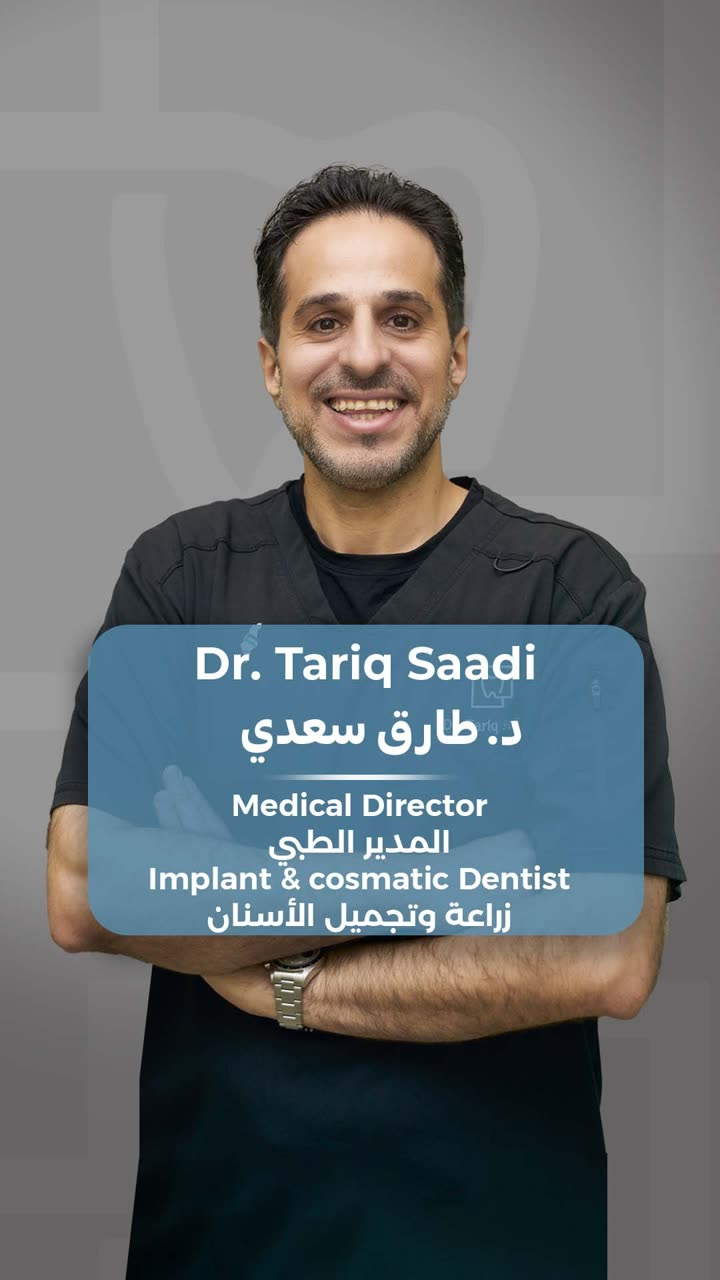
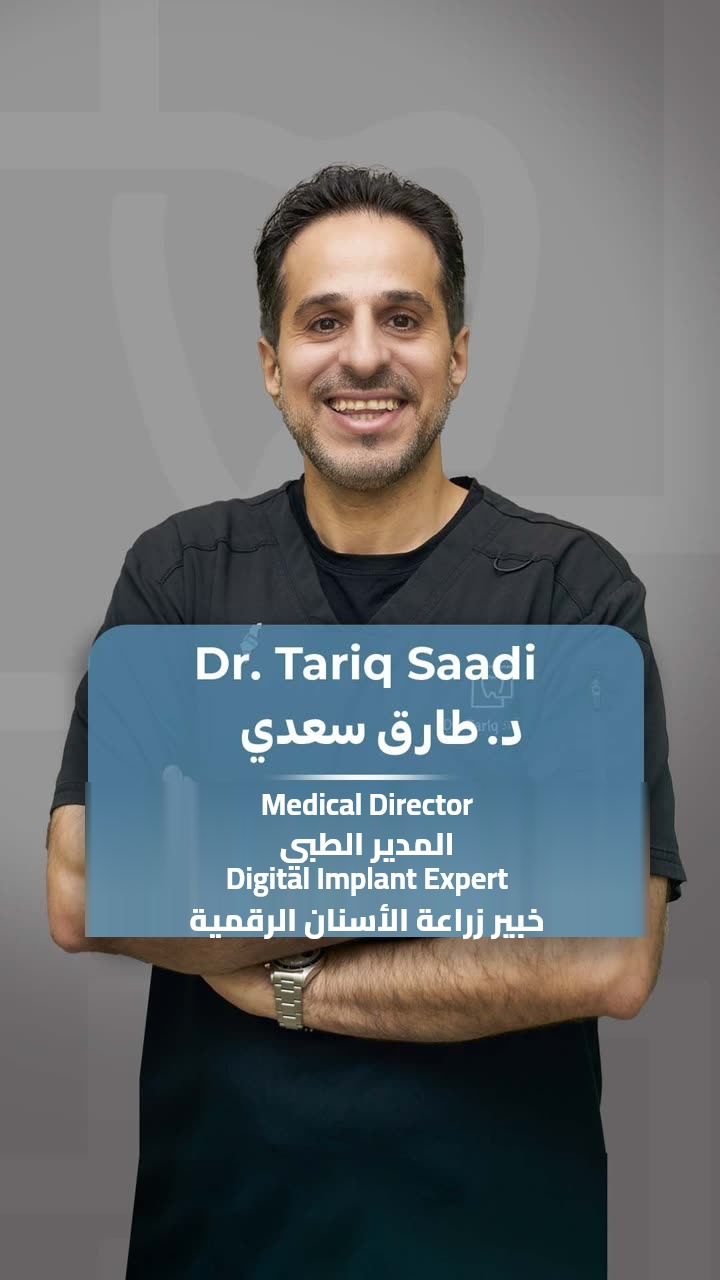
Sync accumulated content/design updates
- Hero copy, badge, CTA, and stats updates; Instagram block replacing stats
- Photo edit: corrected caption text on doctor hero image
- Clinic address, contact numbers, and WhatsApp number updates
- Removed email and social icons; footer cleanup
- Mobile nav z-index fix (close button was unreachable under overlay)
- WhatsApp float button made more prominent with a chat label

diff --git a/index.html b/index.html
@@ -35,7 +35,7 @@
       <svg width="16" height="16" viewBox="0 0 24 24" fill="none"><path d="M4 11.5 12 4l8 7.5M6 10v9h5v-5h2v5h5v-9" stroke="currentColor" stroke-width="1.8" stroke-linecap="round" stroke-linejoin="round"/></svg>
       <span data-i18n="mainSiteBtn">الموقع الرئيسي</span>
     </a>
-    <a href="https://wa.me/971509594655" class="btn btn-primary btn-sm nav-cta" data-i18n="bookBtn">احجز استشارتك</a>
+    <a href="https://wa.me/971501040481" class="btn btn-primary btn-sm nav-cta" data-i18n="bookBtn">احجز استشارتك</a>
     <div class="header-end-group">
       <button class="lang-toggle" id="langToggle">EN</button>
       <button class="nav-toggle" id="navToggle" data-i18n-attr="aria-label:openMenu" aria-label="فتح القائمة" aria-expanded="false">
@@ -59,20 +59,22 @@
   <img id="toothFly" class="tooth-fly" src="assets/images/tooth-3d.png" alt="" aria-hidden="true">
   <div class="wrap hero-grid">
     <div>
-      <div class="eyebrow"><span class="dot"></span> <span data-i18n="eyebrowText">زراعة أسنان رقمية 100%</span></div>
-      <h1 data-i18n-html="heroHeading">سنّك <span id="targetWord">الناقص</span>، برجع مكانه <em>بدقة رقمية</em></h1>
-      <p class="lead" data-i18n="heroLead">د. طارق السعدي هو يلي رح يتابع حالتك بنفسه، بخبرة 20+ سنة — كل خطوة من الفحص لتركيب الزرعة مدروسة رقمياً قبل ما نبلش فيك.</p>
+      <div class="eyebrow"><span class="dot"></span> <span data-i18n="eyebrowText">تجربة زراعة أسنان رقمية متكاملة</span></div>
+      <h1 data-i18n-html="heroHeading">ابتسامتك <span id="targetWord">الكاملة</span>، <em>بدقة رقمية</em> لا تقبل الخطأ</h1>
+      <p class="lead" data-i18n="heroLead">تحت إشراف مباشر من د. طارق السعدي، أحد رواد طب الأسنان الرقمي في دولة الإمارات بخبرة +20 سنه في الزراعه الرقميه, يتم التخطيط لكل حالة رقميًا بدقة كاملة قبل أي تدخل جراحي، لتحقيق نتيجة يمكن التنبؤ بها منذ اليوم الأول.</p>
       <div class="hero-ctas">
-        <a href="https://wa.me/971509594655" class="btn btn-primary">
-          <span data-i18n="bookFreeBtn">احجز استشارة مجانية</span>
+        <a href="https://wa.me/971501040481" class="btn btn-primary">
+          <span data-i18n="bookFreeBtn">احجز جلسة تقييمك مع د. طارق</span>
           <svg width="16" height="16" viewBox="0 0 24 24" fill="none"><path d="M5 12h14M13 6l6 6-6 6" stroke="currentColor" stroke-width="2" stroke-linecap="round" stroke-linejoin="round"/></svg>
         </a>
-        <a href="#service" class="btn btn-outline" data-i18n="seeServiceBtn">شوف الخدمة</a>
+        <a href="#service" class="btn btn-outline" data-i18n="seeServiceBtn">استعرض مراحل العلاج</a>
       </div>
       <div class="hero-stats">
-        <div><div class="n" data-count="20" data-suffix="+">0</div><div class="l" data-i18n="statYears">سنة خبرة</div></div>
-        <div><div class="n" data-count="4.8" data-decimal="1">0</div><div class="l" data-i18n="statRating">تقييم المرضى</div></div>
-        <div><div class="n" data-count="2015">0</div><div class="l" data-i18n="statDigitalSince">رقمي من هالسنة</div></div>
+        <a href="https://www.instagram.com/dr.tariqsaadi/" target="_blank" rel="noopener" class="hero-ig-link">
+          <svg width="20" height="20" viewBox="0 0 24 24" fill="none"><rect x="3" y="3" width="18" height="18" rx="5" stroke="currentColor" stroke-width="1.6"/><circle cx="12" cy="12" r="4" stroke="currentColor" stroke-width="1.6"/><circle cx="17.5" cy="6.5" r="1.2" fill="currentColor"/></svg>
+          <span dir="ltr" data-i18n="instagramHandle">@dr.tariqsaadi</span>
+        </a>
+        <span class="l" data-i18n="instagramCaption">لتتعرف اكتر عن الطبيب وبعض حالات مرضاه</span>
       </div>
       <div class="doctor-skills hero-skills">
         <span>Full-Arch Implants</span>
@@ -105,27 +107,27 @@
 
     <div class="steps-row">
       <div class="step" data-reveal>
-        <div class="step-ic"><svg width="22" height="22" viewBox="0 0 24 24" fill="none"><path d="M4 9h16M4 15h16M9 4v16" stroke="currentColor" stroke-width="1.7" stroke-linecap="round"/></svg></div>
+        <div class="step-ic"><svg width="22" height="22" viewBox="0 0 24 24" fill="none"><path d="M4 7V5a1 1 0 0 1 1-1h2M4 17v2a1 1 0 0 0 1 1h2M20 7V5a1 1 0 0 0-1-1h-2M20 17v2a1 1 0 0 1-1 1h-2" stroke="currentColor" stroke-width="1.7" stroke-linecap="round" stroke-linejoin="round"/><circle cx="12" cy="12" r="3" stroke="currentColor" stroke-width="1.7"/></svg></div>
         <div class="step-n">01</div>
         <div class="step-t" data-i18n="step1">فحص CBCT ثلاثي الأبعاد</div>
       </div>
       <div class="step-line" data-line></div>
       <div class="step" data-reveal>
-        <div class="step-ic camel"><svg width="22" height="22" viewBox="0 0 24 24" fill="none"><path d="M12 2v20M2 12h20" stroke="currentColor" stroke-width="1.7" stroke-linecap="round"/></svg></div>
+        <div class="step-ic camel"><svg width="22" height="22" viewBox="0 0 24 24" fill="none"><path d="M4 16 16 4l4 4L8 20 4 16Z" stroke="currentColor" stroke-width="1.7" stroke-linejoin="round"/><path d="M9.5 10.5l1.5 1.5M12.5 7.5 14 9M6.5 13.5 8 15" stroke="currentColor" stroke-width="1.7" stroke-linecap="round"/></svg></div>
         <div class="step-n">02</div>
         <div class="step-t" data-i18n="step2">تخطيط رقمي للجراحة</div>
       </div>
       <div class="step-line" data-line></div>
       <div class="step" data-reveal>
-        <div class="step-ic"><svg width="22" height="22" viewBox="0 0 24 24" fill="none"><path d="M9 12l2 2 4-4M12 21c-4.5-2-8-5.5-8-10V6l8-3 8 3v5c0 4.5-3.5 8-8 10Z" stroke="currentColor" stroke-width="1.7" stroke-linejoin="round"/></svg></div>
+        <div class="step-ic"><svg width="22" height="22" viewBox="0 0 24 24" fill="none"><circle cx="12" cy="12" r="8" stroke="currentColor" stroke-width="1.7"/><circle cx="12" cy="12" r="3" stroke="currentColor" stroke-width="1.7"/><path d="M12 2v3M12 19v3M2 12h3M19 12h3" stroke="currentColor" stroke-width="1.7" stroke-linecap="round"/></svg></div>
         <div class="step-n">03</div>
         <div class="step-t" data-i18n="step3">زراعة موجّهة رقمياً</div>
       </div>
       <div class="step-line" data-line></div>
       <div class="step" data-reveal>
-        <div class="step-ic camel"><svg width="22" height="22" viewBox="0 0 24 24" fill="none"><rect x="4" y="4" width="16" height="16" rx="3" stroke="currentColor" stroke-width="1.7"/><path d="M8 12h8M12 8v8" stroke="currentColor" stroke-width="1.7" stroke-linecap="round"/></svg></div>
+        <div class="step-ic camel"><svg width="22" height="22" viewBox="0 0 24 24" fill="none"><path d="M12 3c-2 0-3.2 1-4.5 1-1.5 0-2.5-.8-3-.8C3 3.2 3 5 3 6.5c0 3 1 5.5 2 8 .7 1.8 1.3 3.5 2.3 3.5.9 0 1-2 1.4-3.3.3-1 .7-1.7 1.3-1.7s1 .7 1.3 1.7c.4 1.3.5 3.3 1.4 3.3 1 0 1.6-1.7 2.3-3.5 1-2.5 2-5 2-8 0-1.5 0-3.3-1.5-3.3-.5 0-1.5.8-3 .8C15.2 4 14 3 12 3Z" stroke="currentColor" stroke-width="1.5" stroke-linejoin="round"/></svg></div>
         <div class="step-n">04</div>
-        <div class="step-t" data-i18n="step4">تركيبة CAD/CAM نهائية</div>
+        <div class="step-t" data-i18n="step4">تركيبة نهائية مصممة رقميًا</div>
       </div>
     </div>
 
@@ -145,12 +147,12 @@
         </blockquote>
       </div>
       <div class="clinic-contact" data-reveal>
-        <a href="tel:00971509594655"><svg width="16" height="16" viewBox="0 0 24 24" fill="none"><path d="M22 16.92v3a2 2 0 0 1-2.18 2 19.79 19.79 0 0 1-8.63-3.07 19.5 19.5 0 0 1-6-6 19.79 19.79 0 0 1-3.07-8.67A2 2 0 0 1 4.11 2h3a2 2 0 0 1 2 1.72c.12.9.34 1.79.65 2.65a2 2 0 0 1-.45 2.11L8.09 9.91a16 16 0 0 0 6 6l1.43-1.27a2 2 0 0 1 2.11-.45c.86.31 1.75.53 2.65.65A2 2 0 0 1 22 16.92z" stroke="currentColor" stroke-width="1.6" stroke-linejoin="round"/></svg> 00971509594655</a>
-        <a href="mailto:ddcuae@hotmail.com"><svg width="16" height="16" viewBox="0 0 24 24" fill="none"><rect x="3" y="5" width="18" height="14" rx="2" stroke="currentColor" stroke-width="1.6"/><path d="M3 7l9 6 9-6" stroke="currentColor" stroke-width="1.6"/></svg> ddcuae@hotmail.com</a>
-        <span><svg width="16" height="16" viewBox="0 0 24 24" fill="none"><path d="M12 21s-8-5.5-8-11a5 5 0 0 1 9-3 5 5 0 0 1 9 3c0 5.5-8 11-8 11" stroke="currentColor" stroke-width="1.6" stroke-linejoin="round"/></svg> <span data-i18n="clinicAddress">عيادة 4، الطابق 2، تقاطع 6، المزيرعة، الشارقة</span></span>
+        <a href="tel:0097165556363"><svg width="16" height="16" viewBox="0 0 24 24" fill="none"><path d="M22 16.92v3a2 2 0 0 1-2.18 2 19.79 19.79 0 0 1-8.63-3.07 19.5 19.5 0 0 1-6-6 19.79 19.79 0 0 1-3.07-8.67A2 2 0 0 1 4.11 2h3a2 2 0 0 1 2 1.72c.12.9.34 1.79.65 2.65a2 2 0 0 1-.45 2.11L8.09 9.91a16 16 0 0 0 6 6l1.43-1.27a2 2 0 0 1 2.11-.45c.86.31 1.75.53 2.65.65A2 2 0 0 1 22 16.92z" stroke="currentColor" stroke-width="1.6" stroke-linejoin="round"/></svg> 0097165556363</a>
+        <a href="https://wa.me/971501040481" target="_blank" rel="noopener">💬 971501040481</a>
+        <span><svg width="16" height="16" viewBox="0 0 24 24" fill="none"><path d="M12 21s-8-5.5-8-11a5 5 0 0 1 9-3 5 5 0 0 1 9 3c0 5.5-8 11-8 11" stroke="currentColor" stroke-width="1.6" stroke-linejoin="round"/></svg> <span data-i18n="clinicAddress">مدينة الشارقة الصحية</span></span>
         <div class="clinic-ctas">
-          <a href="https://wa.me/971509594655" class="btn btn-primary btn-sm" data-i18n="whatsappBtn">واتساب</a>
-          <a href="tel:00971509594655" class="btn btn-outline btn-sm" data-i18n="callBtn">اتصال</a>
+          <a href="https://wa.me/971501040481" class="btn btn-primary btn-sm" data-i18n="whatsappBtn">واتساب</a>
+          <a href="tel:0097165556363" class="btn btn-outline btn-sm" data-i18n="callBtn">اتصال</a>
         </div>
       </div>
     </div>
@@ -159,19 +161,15 @@
       <div class="section-tag" data-i18n="faqTag">أسئلة شائعة</div>
       <details class="faq-item">
         <summary data-i18n="faq1Q">شو خطوات الزراعة الرقمية عندكم؟</summary>
-        <p data-i18n="faq1A">تصوير CBCT ثلاثي الأبعاد ← تخطيط رقمي للجراحة ← زراعة موجّهة رقمياً ← تركيبة CAD/CAM نهائية — كل خطوة موضّحة بالصورة قبل ما نبلش.</p>
+        <p data-i18n="faq1A">تصوير CBCT ثلاثي الأبعاد ← تخطيط رقمي للجراحة ← زراعة موجّهة رقمياً ← تركيبة نهائية مصممة رقميًا — كل خطوة موضّحة بالصورة قبل ما نبلش.</p>
       </details>
       <details class="faq-item">
         <summary data-i18n="faq2Q">مين اللي بيتابع حالتي؟</summary>
-        <p data-i18n="faq2A">د. طارق السعدي بنفسه، بخبرة 20+ سنة ومن رواد الزراعة الرقمية بالإمارات من 2015.</p>
-      </details>
-      <details class="faq-item">
-        <summary data-i18n="faq3Q">الاستشارة الأولى مجانية؟</summary>
-        <p data-i18n="faq3A">أيوا، وبتشوف خطة علاجك بالتصوير قبل ما تقرر أي شي.</p>
+        <p data-i18n="faq2A">د. طارق السعدي وفريقه المحترف من أطباء وأخصائيين.</p>
       </details>
       <details class="faq-item">
         <summary data-i18n="faq4Q">وين موقع العيادة؟</summary>
-        <p data-i18n="faq4A">عيادة 4، الطابق 2، تقاطع 6، المزيرعة، الشارقة — Sharjah Healthcare City.</p>
+        <p data-i18n="faq4A">مدينة الشارقة الصحية.</p>
       </details>
     </div>
   </div>
@@ -189,14 +187,6 @@
           <span class="brand-text">Digital Medical Center<small>Sharjah Healthcare City</small></span>
         </a>
         <p style="opacity:.6;font-size:13.5px;margin-top:14px;max-width:260px;line-height:1.8;" data-i18n="footerDesc">زراعة أسنان رقمية بإشراف د. طارق السعدي مباشرة — بخطة واضحة من أول يوم، مو تخمين.</p>
-        <div class="footer-social">
-          <a href="https://www.instagram.com/digitalmedical.ae/" target="_blank" rel="noopener" aria-label="Instagram">
-            <svg width="17" height="17" viewBox="0 0 24 24" fill="none"><rect x="3" y="3" width="18" height="18" rx="5" stroke="currentColor" stroke-width="1.6"/><circle cx="12" cy="12" r="4" stroke="currentColor" stroke-width="1.6"/><circle cx="17.5" cy="6.5" r="1.2" fill="currentColor"/></svg>
-          </a>
-          <a href="https://www.facebook.com/profile.php?id=61577867721087" target="_blank" rel="noopener" aria-label="Facebook">
-            <svg width="17" height="17" viewBox="0 0 24 24" fill="none"><path d="M15 8h2V4h-2c-2.2 0-4 1.8-4 4v2H9v4h2v6h4v-6h2.5l.5-4H15V8Z" stroke="currentColor" stroke-width="1.6" stroke-linejoin="round"/></svg>
-          </a>
-        </div>
       </div>
       <div class="footer-links">
         <div>
@@ -209,23 +199,22 @@
         <div>
           <h3 data-i18n="footerContactTitle">تواصل</h3>
           <ul>
-            <li><a href="tel:00971509594655">00971509594655</a></li>
             <li><a href="tel:0097165556363">0097165556363</a></li>
-            <li><a href="mailto:ddcuae@hotmail.com">ddcuae@hotmail.com</a></li>
+            <li><a href="https://wa.me/971501040481" target="_blank" rel="noopener">971501040481</a></li>
           </ul>
         </div>
       </div>
     </div>
     <div class="footer-bottom">
-      <span>© 2026 Digital Medical Center — License No: DUHYGLXH-201025</span>
       <span>implant.digitalmedicalcenter-ae.com</span>
     </div>
   </div>
 </footer>
 
 <!-- ===== WhatsApp float (shared component — see components/whatsapp-float.html) ===== -->
-<a href="https://wa.me/971509594655" class="wa-float" data-i18n-attr="aria-label:whatsappAria" aria-label="تواصل معنا عبر واتساب" target="_blank" rel="noopener">
+<a href="https://wa.me/971501040481" class="wa-float" data-i18n-attr="aria-label:whatsappAria" aria-label="تواصل معنا عبر واتساب" target="_blank" rel="noopener">
   <span class="wa-ring"></span>
+  <span class="wa-label" data-i18n="waLabelText">تحدث معنا</span>
   <svg width="26" height="26" viewBox="0 0 24 24" fill="#fff"><path d="M17.5 14.4c-.3-.1-1.7-.9-2-1-.3-.1-.5-.1-.7.1-.2.3-.8 1-.9 1.2-.2.2-.3.2-.6.1-.3-.2-1.2-.5-2.3-1.5-.9-.8-1.4-1.7-1.6-2-.2-.3 0-.5.1-.6.1-.1.3-.3.4-.5.1-.1.2-.3.3-.5.1-.2 0-.4 0-.5-.1-.1-.7-1.7-1-2.3-.2-.6-.5-.5-.7-.5h-.6c-.2 0-.5.1-.8.4-.3.3-1 1-1 2.4s1.1 2.8 1.2 3c.1.2 2.1 3.3 5.2 4.5.7.3 1.3.5 1.7.6.7.2 1.4.2 1.9.1.6-.1 1.7-.7 2-1.4.2-.7.2-1.3.1-1.4-.1-.1-.3-.2-.6-.3z"/><path d="M12 2C6.5 2 2 6.5 2 12c0 1.9.5 3.6 1.4 5.1L2 22l5.1-1.3c1.4.8 3.1 1.2 4.9 1.2 5.5 0 10-4.5 10-10S17.5 2 12 2zm0 18.1c-1.6 0-3.1-.4-4.5-1.2l-.3-.2-3.3.9.9-3.2-.2-.3C3.8 14.7 3.3 13.4 3.3 12c0-4.8 3.9-8.7 8.7-8.7s8.7 3.9 8.7 8.7-3.9 8.7-8.7 8.7z"/></svg>
 </a>
 

diff --git a/i18n.js b/i18n.js
@@ -16,27 +16,26 @@ window.I18N = {
   bookBtn: { ar: 'احجز استشارتك', en: 'Book Now' },
   openMenu: { ar: 'فتح القائمة', en: 'Open menu' },
 
-  eyebrowText: { ar: 'زراعة أسنان رقمية 100%', en: '100% Digital Implants' },
+  eyebrowText: { ar: 'تجربة زراعة أسنان رقمية متكاملة', en: '100% Digital Implants' },
   heroHeading: {
-    ar: 'سنّك <span id="targetWord">الناقص</span>، برجع مكانه <em>بدقة رقمية</em>',
+    ar: 'ابتسامتك <span id="targetWord">الكاملة</span>، <em>بدقة رقمية</em> لا تقبل الخطأ',
     en: 'Your <span id="targetWord">missing</span> tooth, back in place <em>with digital precision</em>'
   },
   heroLead: {
-    ar: 'د. طارق السعدي هو يلي رح يتابع حالتك بنفسه، بخبرة 20+ سنة — كل خطوة من الفحص لتركيب الزرعة مدروسة رقمياً قبل ما نبلش فيك.',
+    ar: 'تحت إشراف مباشر من د. طارق السعدي، أحد رواد طب الأسنان الرقمي في دولة الإمارات بخبرة +20 سنه في الزراعه الرقميه, يتم التخطيط لكل حالة رقميًا بدقة كاملة قبل أي تدخل جراحي، لتحقيق نتيجة يمكن التنبؤ بها منذ اليوم الأول.',
     en: 'Dr. Tareq Al Saadi personally oversees your case — 20+ years of experience, with every step from scan to implant planned digitally before we touch a thing.'
   },
-  bookFreeBtn: { ar: 'احجز استشارة مجانية', en: 'Book a Free Consultation' },
-  seeServiceBtn: { ar: 'شوف الخدمة', en: 'See the Service' },
+  bookFreeBtn: { ar: 'احجز جلسة تقييمك مع د. طارق', en: 'Book a Free Consultation' },
+  seeServiceBtn: { ar: 'استعرض مراحل العلاج', en: 'See the Service' },
 
-  statYears: { ar: 'سنة خبرة', en: 'Years Experience' },
-  statRating: { ar: 'تقييم المرضى', en: 'Patient Rating' },
-  statDigitalSince: { ar: 'رقمي من هالسنة', en: 'Digital Since' },
+  instagramHandle: { ar: '@dr.tariqsaadi', en: '@dr.tariqsaadi' },
+  instagramCaption: { ar: 'لتتعرف اكتر عن الطبيب وبعض حالات مرضاه', en: 'Learn more about the doctor and see some patient cases' },
 
   serviceHeading: { ar: 'شو بنعملك بالضبط؟ أربع خطوات، وخلاص', en: 'What exactly do we do? Four steps, that’s it' },
   step1: { ar: 'فحص CBCT ثلاثي الأبعاد', en: '3D CBCT Scan' },
   step2: { ar: 'تخطيط رقمي للجراحة', en: 'Digital Surgery Planning' },
   step3: { ar: 'زراعة موجّهة رقمياً', en: 'Digitally-Guided Implant' },
-  step4: { ar: 'تركيبة CAD/CAM نهائية', en: 'Final CAD/CAM Crown' },
+  step4: { ar: 'تركيبة نهائية مصممة رقميًا', en: 'Final CAD/CAM Crown' },
 
   ratingBadge: { ar: '4.8 تقييم', en: '4.8 Rating' },
   licensedBadge: { ar: 'مرخّصة رسمياً', en: 'Officially Licensed' },
@@ -45,30 +44,25 @@ window.I18N = {
     en: '"I put off the implant for two years out of fear. Dr. Tareq showed me every step with imaging before we started, and I felt reassured from the first visit."'
   },
   testimonialCite: { ar: 'مريض بالمركز — تقييم موثّق ضمن 4.8/5', en: 'Patient at the clinic — verified review, part of our 4.8/5 rating' },
-  clinicAddress: { ar: 'عيادة 4، الطابق 2، تقاطع 6، المزيرعة، الشارقة', en: 'Clinic 4, 2nd Floor, Intersection 6, Al Muzeiraʻa, Sharjah' },
+  clinicAddress: { ar: 'مدينة الشارقة الصحية', en: 'Sharjah Healthcare City' },
   whatsappBtn: { ar: 'واتساب', en: 'WhatsApp' },
   callBtn: { ar: 'اتصال', en: 'Call' },
 
   faqTag: { ar: 'أسئلة شائعة', en: 'FAQ' },
   faq1Q: { ar: 'شو خطوات الزراعة الرقمية عندكم؟', en: 'What are the steps of your digital implant process?' },
   faq1A: {
-    ar: 'تصوير CBCT ثلاثي الأبعاد ← تخطيط رقمي للجراحة ← زراعة موجّهة رقمياً ← تركيبة CAD/CAM نهائية — كل خطوة موضّحة بالصورة قبل ما نبلش.',
+    ar: 'تصوير CBCT ثلاثي الأبعاد ← تخطيط رقمي للجراحة ← زراعة موجّهة رقمياً ← تركيبة نهائية مصممة رقميًا — كل خطوة موضّحة بالصورة قبل ما نبلش.',
     en: '3D CBCT scan ← digital surgery planning ← digitally-guided implant ← final CAD/CAM crown — every step shown to you with imaging before we start.'
   },
   faq2Q: { ar: 'مين اللي بيتابع حالتي؟', en: 'Who will be handling my case?' },
   faq2A: {
-    ar: 'د. طارق السعدي بنفسه، بخبرة 20+ سنة ومن رواد الزراعة الرقمية بالإمارات من 2015.',
+    ar: 'د. طارق السعدي وفريقه المحترف من أطباء وأخصائيين.',
     en: 'Dr. Tareq Al Saadi personally, with 20+ years of experience and a pioneer of digital implants in the UAE since 2015.'
-  },
-  faq3Q: { ar: 'الاستشارة الأولى مجانية؟', en: 'Is the first consultation free?' },
-  faq3A: {
-    ar: 'أيوا، وبتشوف خطة علاجك بالتصوير قبل ما تقرر أي شي.',
-    en: 'Yes — and you’ll see your treatment plan with imaging before deciding on anything.'
   },
   faq4Q: { ar: 'وين موقع العيادة؟', en: 'Where is the clinic located?' },
   faq4A: {
-    ar: 'عيادة 4، الطابق 2، تقاطع 6، المزيرعة، الشارقة — Sharjah Healthcare City.',
-    en: 'Clinic 4, 2nd Floor, Intersection 6, Al Muzeiraʻa, Sharjah — Sharjah Healthcare City.'
+    ar: 'مدينة الشارقة الصحية.',
+    en: 'Sharjah Healthcare City.'
   },
 
   footerDesc: {
@@ -79,5 +73,6 @@ window.I18N = {
   footerContactTitle: { ar: 'تواصل', en: 'Contact' },
 
   whatsappAria: { ar: 'تواصل معنا عبر واتساب', en: 'Contact us on WhatsApp' },
+  waLabelText: { ar: 'تحدث معنا', en: 'Chat with us' },
   scrollDownAria: { ar: 'انزل تحت', en: 'Scroll down' }
 };

diff --git a/css/components.css b/css/components.css
@@ -22,7 +22,7 @@
 .site-header{position:fixed;inset:0 0 auto 0;z-index:100;padding:20px 0;transition:all .35s ease;}
 .site-header.scrolled{background:rgba(255,255,255,.92);backdrop-filter:blur(10px);padding:12px 0;box-shadow:0 4px 20px rgba(11,29,58,.08);}
 .header-inner{display:flex;align-items:center;justify-content:space-between;gap:20px;}
-.header-end-group{display:flex;align-items:center;gap:10px;}
+.header-end-group{display:flex;align-items:center;gap:10px;position:relative;z-index:101;}
 
 .brand{display:flex;align-items:center;gap:10px;}
 .brand-icon{width:36px;height:36px;object-fit:contain;flex-shrink:0;}
@@ -152,9 +152,13 @@
 .faq-item p{color:rgba(255,255,255,.72);font-size:14px;line-height:1.8;margin-top:10px;}
 
 /* ---------- WhatsApp float ---------- */
-.wa-float{position:fixed;bottom:26px;left:26px;width:58px;height:58px;background:var(--wa-green);border-radius:50%;
-  display:flex;align-items:center;justify-content:center;box-shadow:0 12px 28px rgba(37,211,102,.45);z-index:90;
+.wa-float{position:fixed;bottom:26px;left:26px;width:64px;height:64px;background:var(--wa-green);border-radius:50%;
+  display:flex;align-items:center;justify-content:center;box-shadow:0 14px 32px rgba(37,211,102,.5);z-index:90;
   animation:floatY 3.5s ease-in-out infinite;}
 .wa-ring{position:absolute;inset:0;border-radius:50%;border:2px solid var(--wa-green);animation:waPulse 2.2s ease-out infinite;}
+.wa-label{position:absolute;top:50%;left:100%;margin-left:14px;transform:translateY(-50%);background:var(--white);color:var(--ink);
+  padding:10px 18px;border-radius:var(--r-pill);font-size:13.5px;font-weight:700;box-shadow:var(--shadow-card);
+  white-space:nowrap;pointer-events:none;}
+@media(max-width:640px){.wa-label{display:none;}}
 @keyframes waPulse{0%{transform:scale(1);opacity:.6;}100%{transform:scale(1.7);opacity:0;}}
 @media (prefers-reduced-motion: reduce){.wa-ring{animation:none;display:none;}}

diff --git a/styles.css b/styles.css
@@ -33,11 +33,13 @@
 
 .hero-ctas{display:flex;gap:14px;flex-wrap:wrap;opacity:0;animation:riseIn .8s ease forwards .55s;}
 
-.hero-stats{display:flex;gap:28px;margin-top:34px;opacity:0;animation:riseIn .8s ease forwards .7s;}
+.hero-stats{display:flex;align-items:center;gap:14px;flex-wrap:wrap;margin-top:34px;opacity:0;animation:riseIn .8s ease forwards .7s;}
 .hero-stats div{border-right:2px solid rgba(255,255,255,.14);padding-right:20px;}
 .hero-stats div:first-child{padding-right:0;border:none;}
 .hero-stats .n{font-family:var(--font-display);font-size:26px;font-weight:800;color:var(--blue-light);}
 .hero-stats .l{font-size:12px;color:rgba(255,255,255,.65);font-weight:500;}
+.hero-ig-link{display:inline-flex;align-items:center;gap:8px;background:rgba(255,255,255,.08);border:1px solid var(--line-on-navy);padding:9px 16px;border-radius:var(--r-pill);color:#fff;font-weight:700;font-size:14px;}
+.hero-ig-link svg{flex-shrink:0;}
 
 .hero-visual{position:relative;z-index:2;opacity:0;animation:riseIn 1s ease forwards .35s;perspective:1000px;}
 .hero-photo-card{aspect-ratio:4/5;transition:transform .15s ease-out;transform-style:preserve-3d;}
